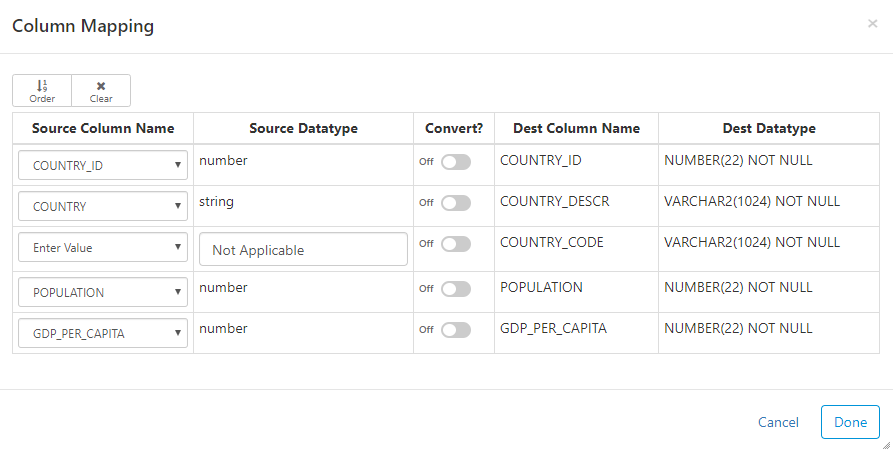
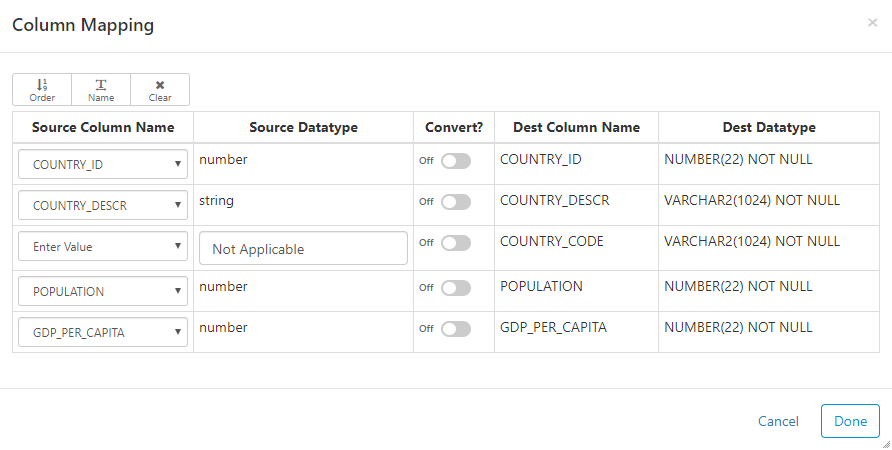
ETL Doc improvements
Add the map-by-name feature to docs
Make some text more descriptive
Add Design page image

diff --git a/docs/etl.md b/docs/etl.md
@@ -18,14 +18,16 @@ From the *Administration > Data Transform* list, click on an existing transforma
 ## Tools
 There are three (Container, SQL Task, Data Flow) simple tools you can use to design your transformation. Drag-and-drop any of the following tools from the *Tools* panel into the *Transformation Design* panel. The number order of the tasks will be the order that they are processed.
 
+![](/img/etl_designpage.png)
+
 ### Container
-Containers can hold *SQL Tasks* or *Data Flows*. Everything inside a container will execute in parallel (i.e. synchronous).
+Containers can hold *SQL Tasks* or *Data Flows*, which will appear inside the blue dotted border of the container. Everything inside a container will execute in parallel (i.e. synchronous).
 
 ### SQL Task
 Use SQL tasks to execute any SQL command. This is commonly used to set database settings or build custom insert/update/delete (CRUD) statements.
 
 ### Data Flow
-Data flow tasks are used to extract data from a source and load it into a destination.
+Data flow tasks are used to extract data from a source and load it into a destination. They appear with a name/label and three buttons for editing the source, mapping, and destination.
 
 ![](/img/etl_dataflow.png)
 
@@ -49,6 +51,7 @@ Click on the arrow to map the source columns to destination columns.
 
 Here are the main options for mapping:
 * Order button: automatically map all the columns based on the order of the columns from the source
+* Name button: automatically map all the columns based on the name of the source and dest columns
 * Clear button: remove all existing mappings
 * Convert: convert data type from source type into destination type
 * Enter Value: manually enter a static value as a source column by setting the Source Column Name to "Enter Value"
